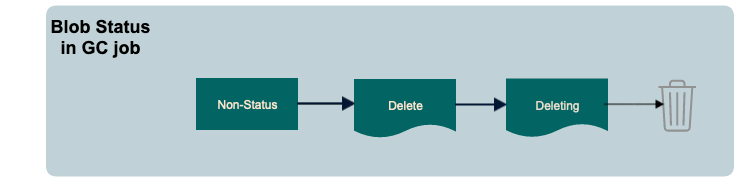
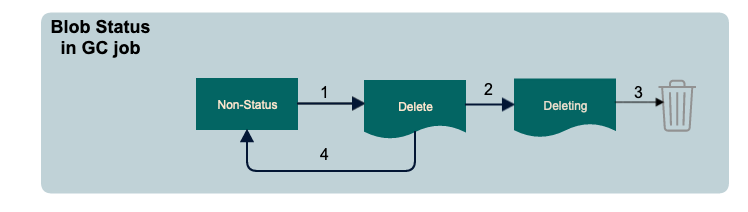
update proposal version 2

diff --git a/proposals/new/Non-Blocking-GC.md b/proposals/new/Non-Blocking-GC.md
@@ -17,6 +17,12 @@ And in some cases, especially on the cloud based backend, the execution time of 
 This proposal wants to try to introduce a way to enable non-blocking GC without setting Harbor to readonly. Push is still 
 work at the time of GC execute.
 
+## Non Goal
+This proposal is assuming that the data in the Harbor Database is accurate, and any data asymmetry is out of scope:
+
+* It has artifact in Harbor DB but no corresponding manifest in registry storage.
+* It has manifest in registry storage but no corresponding artifact in Harbor DB.
+
 ### OCI Database
 
 To facilitate non-blocking GC, Harbor builds up a OCI Data Base to track all the uploaded assets,
@@ -88,7 +94,7 @@ Base on the above data, what we knows:
     Indetifier of each blob/manifest.
     Reference count of each blob/manifest.
 
-## Non-Blocking
+## Non-Blocking [optional 1]
 
 As a system admin, you configure Harbor to run a garbage collection job on a fixed schedule. At the scheduled time, Harbor:
 
@@ -127,8 +133,19 @@ All of selected candidate are marked as status **delete**.
 #### Blob Lifecycle
 ![blob_status](../images/non-blocking-gc/blob_status.png)
 
+* Non-status: normal blob that is being consumed by Harbor.
+* Delete: GC candidate
+* Deleting: The blob is being removed during GC.
+
+1. Non-status -> Delete : Mark the blob as candidate.
+2. Delete -> Deleting : Select the blob and call the API to delete asset in the backend storage.
+3. Deleting -> Trash : Delete success.
+4. Delete -> Non-status : Client asks the existence of blob, remove it from the candidate.
 
 The registry controller will grant the capability of deleting blob & manifest.
+
+How does docker client push a blob?
+![blob_status](../images/non-blocking-gc/push_blob.png)
 
 #### Question 1, how to deal with the uploading blobs at the phase of sweeping.
 Docker client will send a head request to ask the existence of the blob, we will intercept that request.
@@ -138,6 +155,8 @@ all of the uploaded data are stored at '_upload' folder.
 2. if the blob is in delete status, remove it from the candidate.
 
 ![head_blob](../images/non-blocking-gc/mark_manifest.png)
+
+![put_blob](../images/non-blocking-gc/put_blob.png)
 
 Not in candidate, Head request returns 200. But GC marks it as delete at this time.
 ![blob_status_change](../images/non-blocking-gc/blob_status_change.png)
@@ -153,15 +172,40 @@ The put manifest will be eventually passed to proxy, and let registry to deal wi
 ![put_manifest](../images/non-blocking-gc/put_manifest.png)
 
 #### Question 3, how to deal with the uploading "untagged manifest" of a index at the phase of sweeping.
-Different wit push a stand alone artifact, docker client will send a head request before putting a manifest in push a **untagged** manifest in the process of pushing Index,  we will intercept that request.
+Different with push a stand alone artifact, docker client will send a head request before putting a manifest in push a **untagged** manifest in the process of pushing Index,  we will intercept that request.
 
 ![head_manifest](../images/non-blocking-gc/head_manifest.png)
 
 #### Question 4, what about if client only sends head request, and no put following.
 The manifest or blob will only be removed from the deletion candidates, and it can be GCed in the next execution.
 
+### Blob DB scheme
+
+It needs to add two more attributes, **update_time and status**.
+
+```
+CREATE TABLE blob
+(
+  id            SERIAL PRIMARY KEY NOT NULL,
+  /*
+     digest of config, layer, manifest
+  */
+  digest        varchar(255)        NOT NULL,
+  content_type  varchar(1024)       NOT NULL,
+  size          bigint              NOT NULL,
+  status        varchar(255)        NOT NULL, 
+  update_time   timestamp default CURRENT_TIMESTAMP,
+  creation_time timestamp default CURRENT_TIMESTAMP,
+  UNIQUE (digest)
+);
+```
+
 ### Delete Blob & Manifest
 We'd like to enable the registry controller to have the capability to delete blob & manifest via digest by leveraging the distribution code as library.
+
+To grant the capability to delete blob & manifest, the registyctl should share the configuration file of registry.
+
+![registry_controller](../images/non-blocking-gc/registry_controller.png)
 
 **DOUBLE GUARANTEE**
 
@@ -171,9 +215,6 @@ We'd like to enable the registry controller to have the capability to delete blo
 2. Time window -- We need to introduce the time window, the blobs/manifest in the time window will be reserved.
 Even we introduce a update time to resolve the read/write, it still cannot resolve all of problems, like:
 ![time_window](../images/non-blocking-gc/time_window.png)
-
-### To Be Discussed
-What about if harbor crash but the blob status was marked as **deleting**, for the current desgin, this blob cannot be pushed in the following operations.
 
 #### API
 
@@ -203,7 +244,7 @@ BODY         :
 
 ```
 
-Draft code PR has been created: https://github.com/goharbor/harbor/pull/10441
+Draft code PR has been created: https://github.com/goharbor/harbor/pull/12006
 
 ### Overall flow
 The basic flow is:
@@ -213,3 +254,23 @@ The basic flow is:
 * Call registry controller API to delete blob & manifest in GC job.
 
 ![over_flow](../images/non-blocking-gc/overall_flow.png)
+
+## Fragment Read-Only [optional 2]
+
+The basic idea is that, Harbor selects a subset for the GC candidate full-set, marks these blob as read-only, and recover read-only after deletion success.
+The read-only is not a system wide, just within the subset. Harbor only blocks the request that pushes blob & manifest belongs to the selected subset.
+
+![fragment_read_only](../images/non-blocking-gc/fragment_read_only.png)
+
+### To Be Discussed 
+
+* (This can be handled by job-service) What about if harbor crash but the blob status was marked as **deleting**, for the current desgin, this blob cannot be pushed in the following operations.
+
+* How to deal with the untagged manifest in pre Harbor v2.0.0?
+
+* What about if harbor crash but the system was marked as **GC Running**? To erase it on core launching?
+ 
+* It needs to clean data in table **blob** on upgrading from v1.10.0/v2.0.0,to v2.1.0.
+
+* Orphan blobs management. Can we show the orphan blobs in UI? Enable orphan blobs deletion?
+
